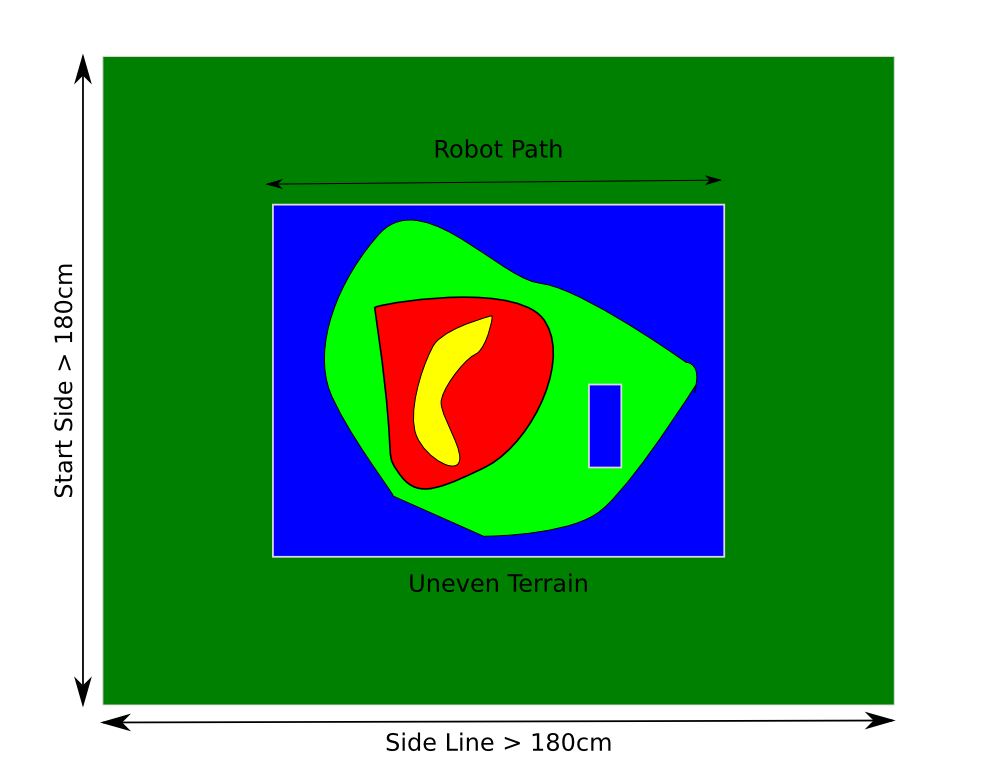
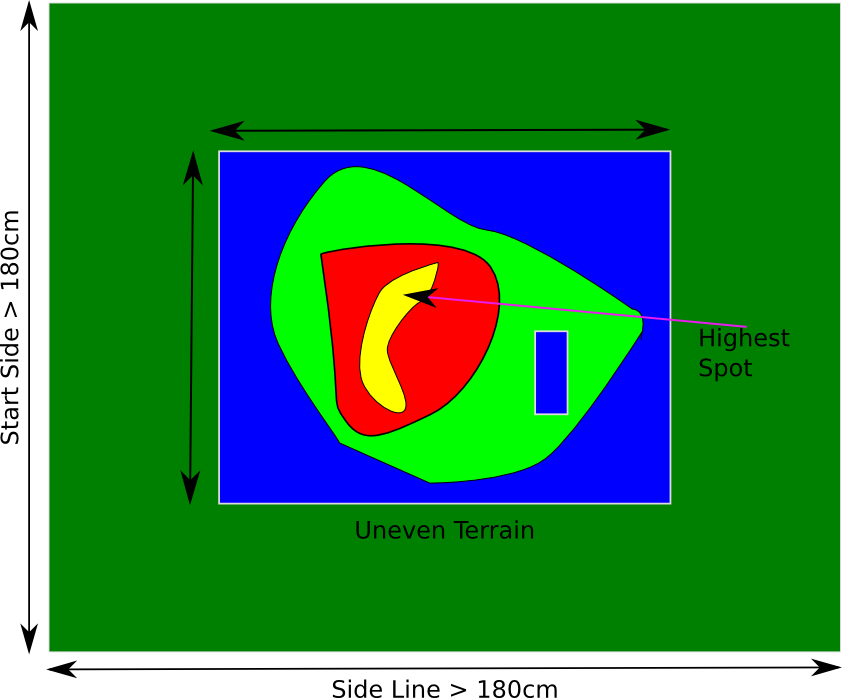
Modified lift and carry competition rules.

diff --git a/lift-and-carry-laws.tex b/lift-and-carry-laws.tex
@@ -44,7 +44,12 @@ always available from the FIRA \HuroCup\ website (http://www.fira.net).
 
 \section*{Changes to the Rules of \HuroCup\ Lift and Carry for \thisyear}
 
-There is no changes in the rules for \thisyear.
+The game play has been changed to make it more flexible and more
+challenging. The robot now has to start at a random position around
+the field and then reach the highest point on the uneven field and
+then leave the stepping field.
+
+The size of the uneven field has been increased to 1.5m by 1.5m.
 
 \newpage
 
@@ -53,12 +58,17 @@ There is no changes in the rules for \thisyear.
 
 The goal of this competition is to provide an event that requires
 robots to use active balancing. The robots will be fitted with a small
-basket. The robots repeatedly walk across an uneven terrain from one
-side to the other. Once the robot reaches the end of the uneven
-terrain, the referee adds small heavy obstacles into the basket. The
-robot must compensate for the extra weight and continue to cross the
-uneven terrain.  to walk. The robot that can carry the most weight is
-declared the winner of the event.
+basket. The robot must start at a random spot around the field and
+then reach a specific location on the uneven field. Once the robot has
+reached the target location it must then continue and leave again the
+uneven field.
+
+Once a robot has successfully completed a run, extra weight is added
+to the robot and it has to complete another run from a different
+random location.
+
+The robot that can successfully carry the most weight is declared the
+winner of the event.
 
 \section{Laws of the Game: Lift and Carry Competition}
 \label{sec:rules-lift-carry}
@@ -76,9 +86,8 @@ the referees) please refer to the general \HuroCup\ laws.
 \item The dimensions of the playing field are at least 180cm by
   180cm.
 
-\item An approximately 1.00m by 1.00m wide uneven terrain is placed by
-the referee in the playing field (See
-Fig.~\ref{fig:lift-and-carry-field}.
+\item An approximately 1.50m by 1.50m wide uneven terrain is placed
+  within the playing field (See Fig.~\ref{fig:lift-and-carry-field}.
 
   \begin{figure}
     \begin{center}
@@ -110,9 +119,6 @@ have different colours as shown in Fig.~\ref{fig:uneven-terrain}.
     \caption{A sample uneven terrain}
     \label{fig:uneven-terrain}
   \end{figure}
-
-\item Teams may place small coloured markers in the goal area as long
-  as they do not interfere with other teams.
 
 \end{lawlist}
 
@@ -169,19 +175,34 @@ the assitant referee.
     \label{fig:robot-lift-and-carry-basket}
   \end{figure}
 
-\item The runner will be placed at one end of the uneven terrain in
-the middle of the terrain.
+\item The runner will be placed at a random location on the edge of
+  the uneven terrain. 
 
-\item At the beginning of the competition, the referee will place one
-  weight in the basket attached to the robot.
+\item At the beginning of the competition, the referee will place five
+  weights in the basket attached to the robot.
 
 \item The referee will signal the start of the competition by blowing
   the whistle.
 
-\item After the referee gives the start signal, the robot must cross
-  the uneven terrain to reach the other side.
+\item After the referee gives the start signal, the robot must
+  immediately step onto to the uneven terrain. Then it must reach the
+  highest spot on the uneven terrain. The robot has reached that the
+  highest spot if it touches the highest spot with both feet.
 
-\item A robot is not allowed to leave the uneven terrain along the sides.
+\item Once the robot has successfully reached the highest spot on the
+  uneven terrain, it must then leave the uneven terrain. The robot has
+  left the field if both feet touch the ground outside of the uneven
+  terrain.
+
+\item Once the robot leaves the field after having reached the highest
+  spot, the referee will add five weights to the robot and another run
+  will start from a random location selected by the referee.
+
+\item A robot is not allowed to leave the uneven terrain without
+  touching the highest spot first.
+
+\item The robot is not allowed to fall during a trial. The only parts
+  of the robot that are allowed to touch the ground are its feet.
 
 \item Each robot may have at most one human handler associated with
   it.
@@ -197,14 +218,13 @@ the middle of the terrain.
   blowing the whistle a second time.
   The referee terminates the competition if
   \begin{itemize}
-  \item the robot has crossed the uneven terrain with a maximum load,
-  \item the robot was unable to cross the uneven terrain within 2 minutes,
-  \item the robot falls and is unable to get up on its own or is
-    immobilized by a technical defect, 
-  \item the robot leaves the uneven terrain along the side lines,
-  \item at least one minute has elapsed since the start of the
-    competition and it is unlikely in the opinion of the referee that
-    the robot will cross the finish line within the remaining time.
+  \item the robot has left the uneven terrain with a maximum load,
+  \item the robot was unable to reach the highest spot and then leave
+    the field within 2 minutes,
+  \item the robot does not immediately step on the uneven terrain at
+      the start of the trial,
+  \item the robot leaves the uneven terrain before reaching the
+    highest spot,
   \end{itemize}
 
 \item At the end of the run, another robot will be designated the
@@ -215,10 +235,10 @@ the middle of the terrain.
 \law[LC]{Method of Scoring}
 
 \begin{lawlist}[LC]
-\item Any robot that has not crossed the uneven terrain at least once is
-  automatically awarded $0$ rank.
+\item Any robot that has not reached the highest spot and left the
+  uneven terrain at least once is automatically awarded $0$ rank.
 
-\item Among the robots that have crossed the uneven terrain at least
+\item Among the robots that have left the uneven terrain at least
   once, the robots are ranked (i.e., 1st place, 2nd place) based on
   the greater number of batteries carried.
 
@@ -275,13 +295,13 @@ the middle of the terrain.
   \end{itemize}
 
 \item In case of a tie between $n$ robots with rank $k$, all robots
- will be awarded rank $k$ and receive the average of the scores for
- ranks $k$ to $k+n$.  For example, if the robots $A,B,C,D$ scored $10,
- 8, 8, 4$ goals respectively, then robot $A$ will be declared the
- winner (1st place) and receive 10 points, both robots $B$ and $C$
- will be declared 2nd place finishers and receive $(8+6)/2=7$, and
- robot $D$ will be declared the fourth place finisher and receive $4$
- points.
+  will be awarded rank $k$ and receive the average of the scores for
+  ranks $k$ to $k+n$.  For example, if the robots $A,B,C,D$ scored
+  $10, 8, 8, 4$ points respectively, then robot $A$ will be declared
+  the winner (1st place) and receive 10 points, both robots $B$ and
+  $C$ will be declared 2nd place finishers and receive $(8+6)/2=7$,
+  and robot $D$ will be declared the fourth place finisher and receive
+  $4$ points.
 
 \end{lawlist}
 
@@ -292,7 +312,7 @@ the middle of the terrain.
 \begin{itemize}
 \item The uneven terrain will only contain steps wich move one level
   up or down.
-\item The minimum distance between edges of the sheets is 5 cm.
+\item The minimum distance between edges of the sheets is 3 cm.
 \end{itemize}
 These additional constraints are targeted at simplifying the lift and
 carry competition over uneven terrain.

diff --git a/hurocup_defs.tex b/hurocup_defs.tex
@@ -1,3 +1,3 @@
-\newcommand{\thisyear}{2011}
+\newcommand{\thisyear}{2012}
 
 \newcommand{\HuroCup}{\textsc{HuroCup}}
